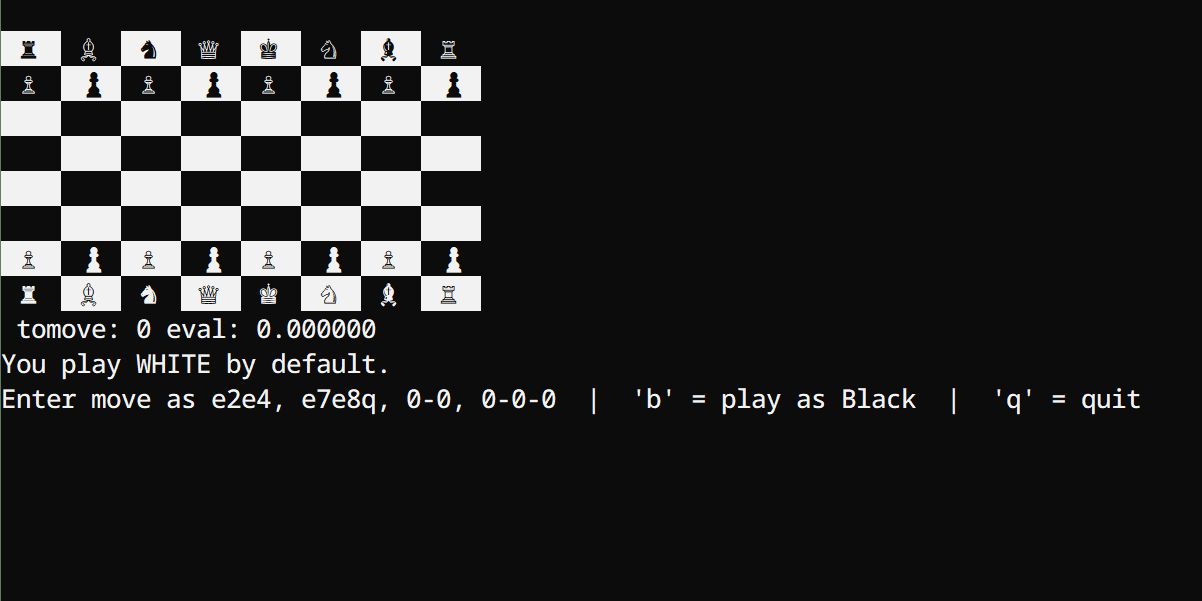
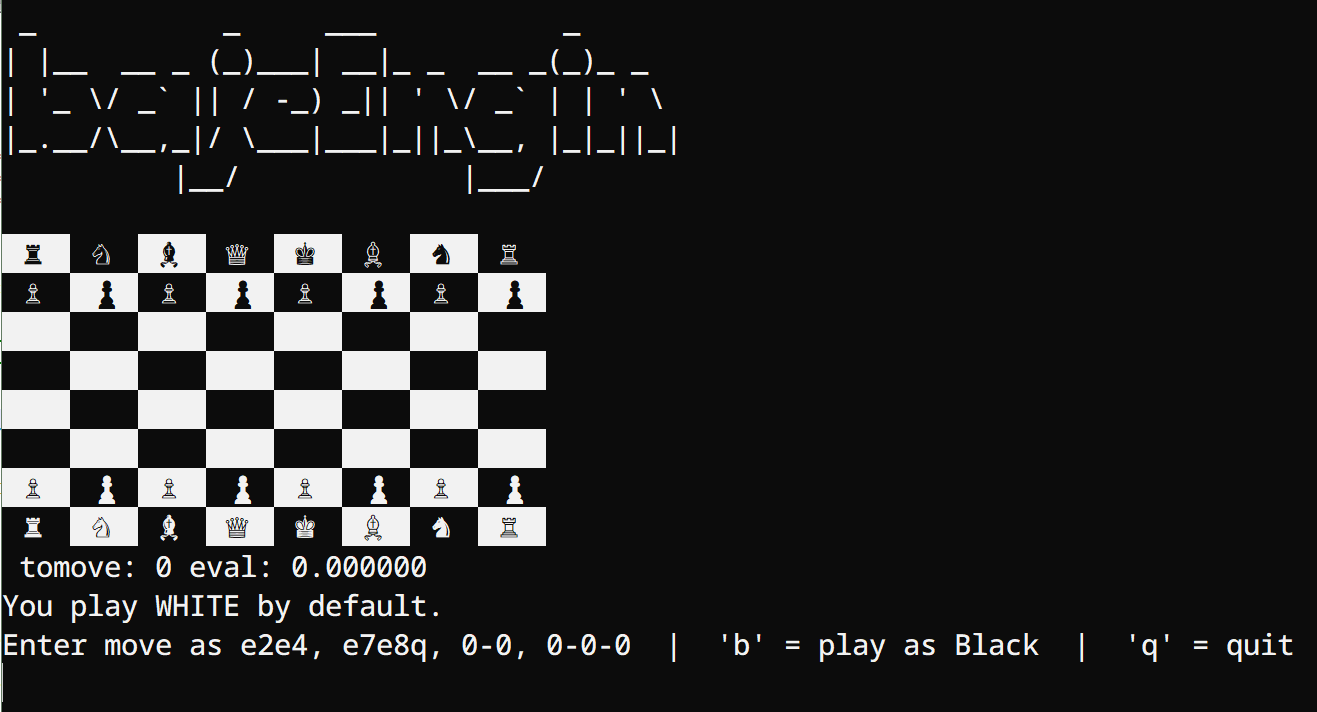
Changes to bajeEngin

diff --git a/bajeEngin07.c b/bajeEngin07.c
@@ -113,14 +113,14 @@ void print_pice(int pice, int sq) {
 			case -KING  : printf(" ♚  "); break;
 			case -QUEEN : printf(" ♛  "); break;
 			case -ROOK  : printf(" ♜  "); break;
-			case -KNIGHT: printf(" ♝  "); break;
-			case -BISHOP: printf(" ♞  "); break;
+			case -BISHOP: printf(" ♝  "); break;
+			case -KNIGHT: printf(" ♞  "); break;
 			case -PAWN  : printf(" ♟  "); break;
 			case KING  : printf(" ♔  "); break;
 			case QUEEN : printf(" ♕  "); break;
 			case ROOK  : printf(" ♖  "); break;
-			case KNIGHT: printf(" ♗  "); break;
-			case BISHOP: printf(" ♘  "); break;
+			case BISHOP: printf(" ♗  "); break;
+			case KNIGHT: printf(" ♘  "); break;
 			case PAWN  : printf(" ♙  "); break;
 			default    : printf("    ");
 		}
@@ -131,14 +131,14 @@ void print_pice(int pice, int sq) {
 			case KING  : printf(" ♚  "); break;
 			case QUEEN : printf(" ♛  "); break;
 			case ROOK  : printf(" ♜  "); break;
-			case KNIGHT: printf(" ♝  "); break;
-			case BISHOP: printf(" ♞  "); break;
+			case BISHOP: printf(" ♝  "); break;
+			case KNIGHT: printf(" ♞  "); break;
 			case PAWN  : printf(" ♟  "); break;
 			case -KING  : printf(" ♔  "); break;
 			case -QUEEN : printf(" ♕  "); break;
 			case -ROOK  : printf(" ♖  "); break;
-			case -KNIGHT: printf(" ♗  "); break;
-			case -BISHOP: printf(" ♘  "); break;
+			case -BISHOP: printf(" ♗  "); break;
+			case -KNIGHT: printf(" ♘  "); break;
 			case -PAWN  : printf(" ♙  "); break;
 			default    : printf("    ");
 		}
@@ -452,6 +452,15 @@ cutoff:
 	return res;
 }
 
+void print_banner(void) {
+	printf(
+" _           _     ___           _\n"
+"| |__  __ _ (_)___| __|_ _  __ _(_)_ _\n"
+"| '_ \\/ _` || / -_) _|| ' \\/ _` | | ' \\\n"
+"|_.__/\\__,_|/ \\___|___|_||_\\__, |_|_||_|\n"
+"          |__/             |___/\n");
+}
+
 // == Console play mode ==========================
 void console_play(void) {
 		#ifdef _WIN32
@@ -459,6 +468,7 @@ void console_play(void) {
 		#else
 			system("clear");
 		#endif
+	print_banner();
 	init_board();
 	print_board(root);
 	char line[256];
@@ -560,6 +570,7 @@ int main(int argc, char** argv) {
 		char cmd[64];
 		if (sscanf(line, "%63s", cmd) != 1) continue;
 		if (strcmp(cmd, "uci") == 0) {
+			print_banner();
 			puts("id name bajeEngin.0.07 - Chandan Das");
 			puts("id author Chandan Das");
 			puts("uciok");